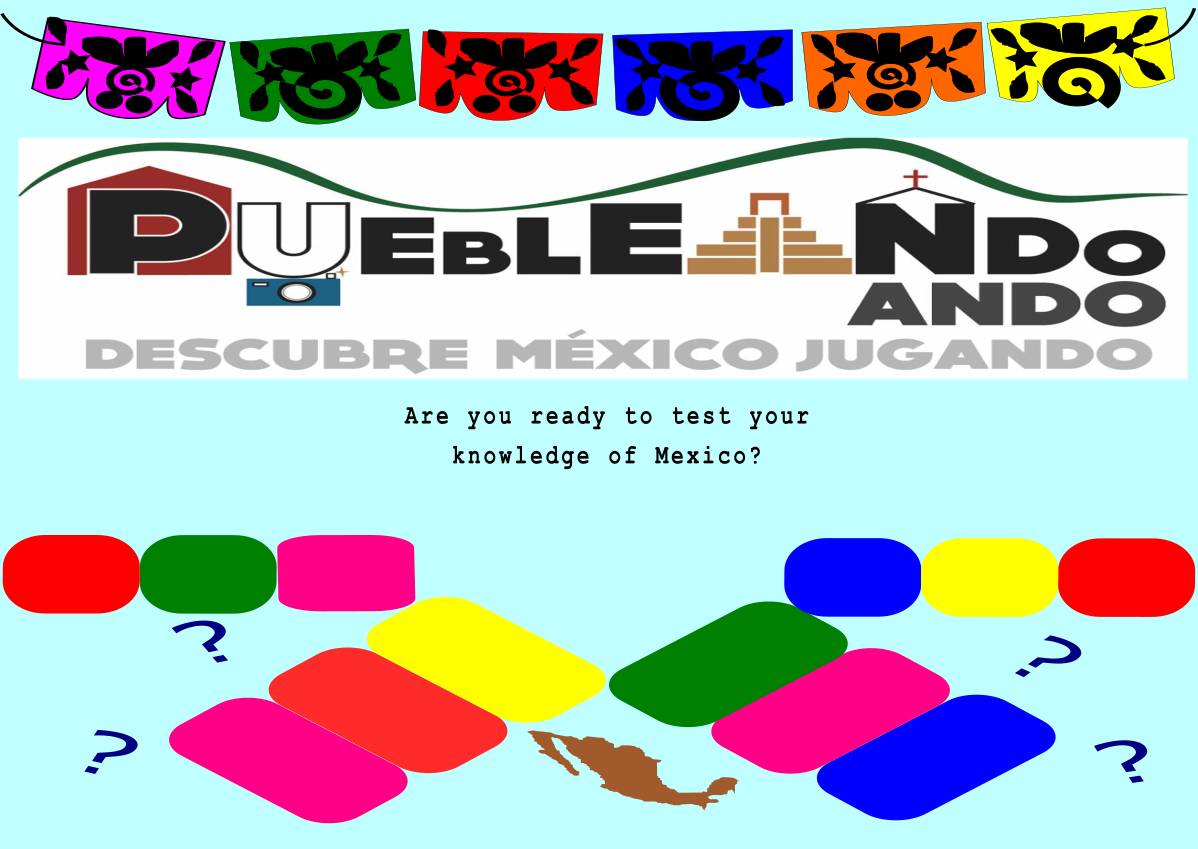
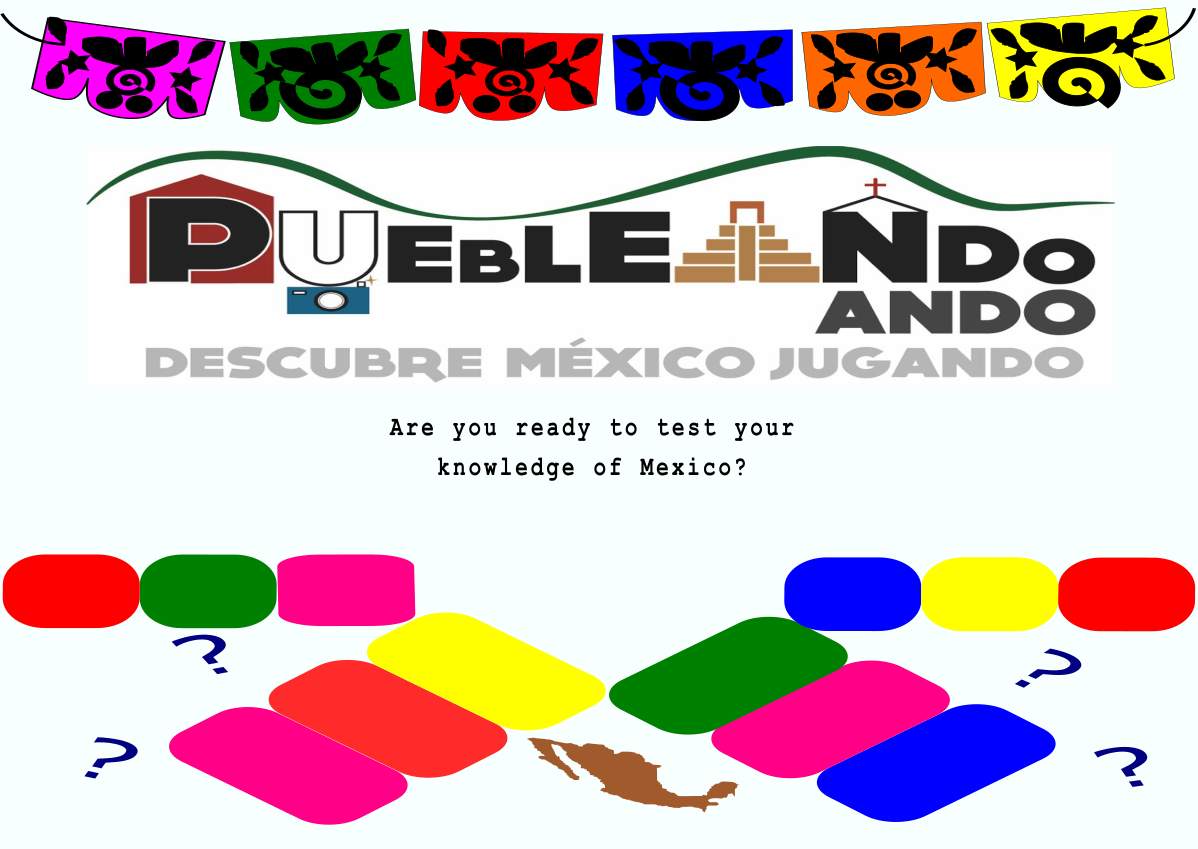
more more more changes

diff --git a/src/components/Wheel/Wheel.css b/src/components/Wheel/Wheel.css
@@ -126,6 +126,18 @@ a {
 
 }
 
+#selectTxt {
+  /* border: 1px solid black; */
+  padding: 20px 20px;
+  margin-bottom: 200px;
+  display: block;
+  width: 70%;
+  margin: 0 auto;
+  font-size: 1.2em;
+  background-color: whitesmoke;
+  margin-bottom: 40px;
+}
+
 #wheelh1Txt {
   font-weight: normal;
   font-size: 1.5em;

diff --git a/src/components/Wheel/Wheel.js b/src/components/Wheel/Wheel.js
@@ -27,6 +27,7 @@ function Wheel({item}) {
 
   return (
     <div id="wheelContainer">
+      <h1 id="selectTxt">SELECT A CATEGORY BELOW.</h1>
       <button id="spinBtn" onClick={toggleAnimation}>
         CLICK TO SPIN!
       </button>

diff --git a/src/components/App/App.css b/src/components/App/App.css
@@ -16,7 +16,7 @@ body {
 }
 
 #root {
-  height:auto;
+  height:850px;
   width: 90%;
   display: block;
   margin: 0 auto;
